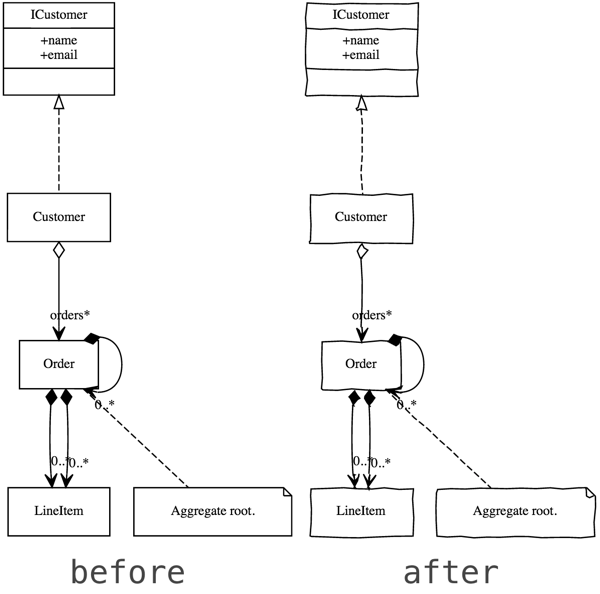
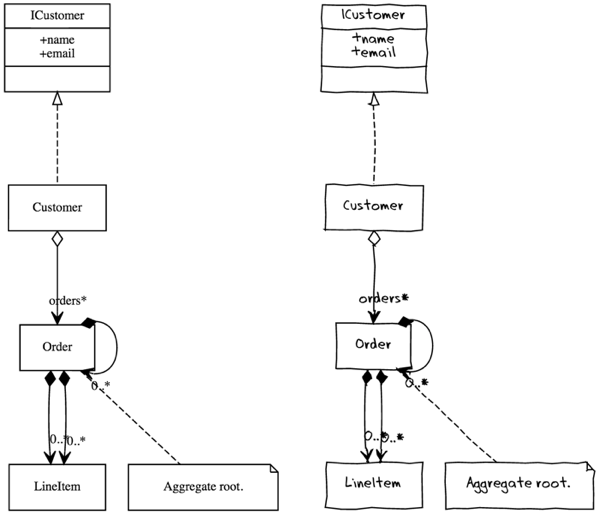
changed the example (again)

diff --git a/README.md b/README.md
@@ -9,8 +9,7 @@ wsvg
 
 So for example it will turn the left input into the right output:
 
-![Example](https://github.com/schoeffm/waggly-svg/blob/master/doc/normal.png)
-![Example](https://github.com/schoeffm/waggly-svg/blob/master/doc/scruffy.png)
+![Example](https://github.com/schoeffm/waggly-svg/blob/master/doc/example.png)
 
 # Usage
 
